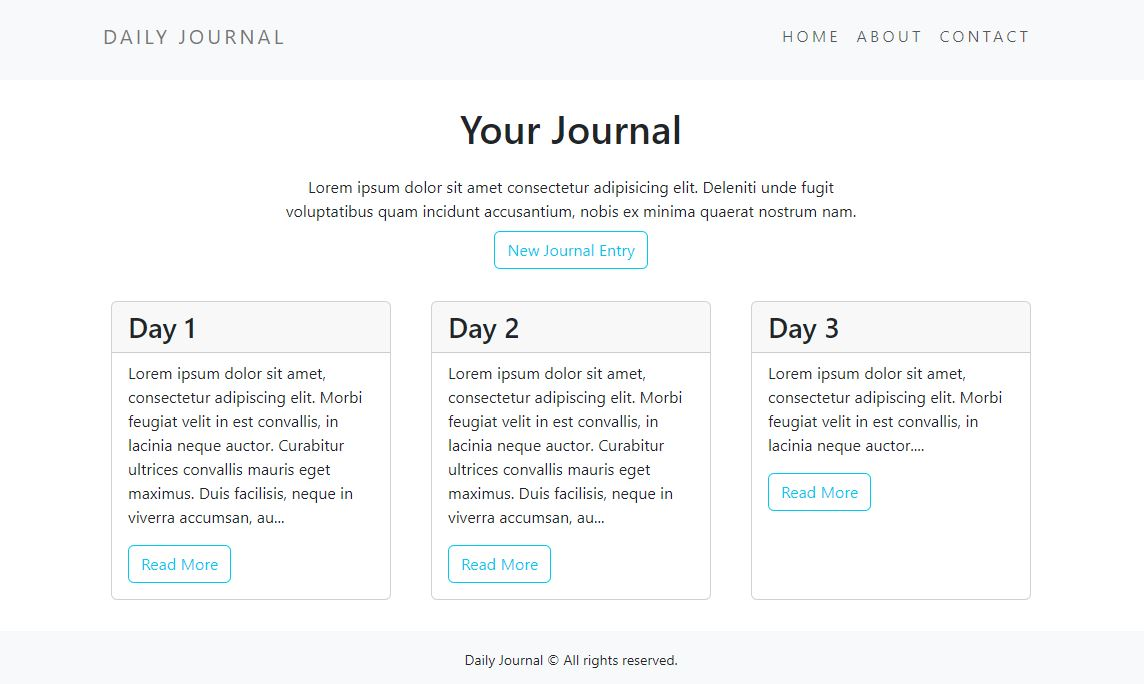
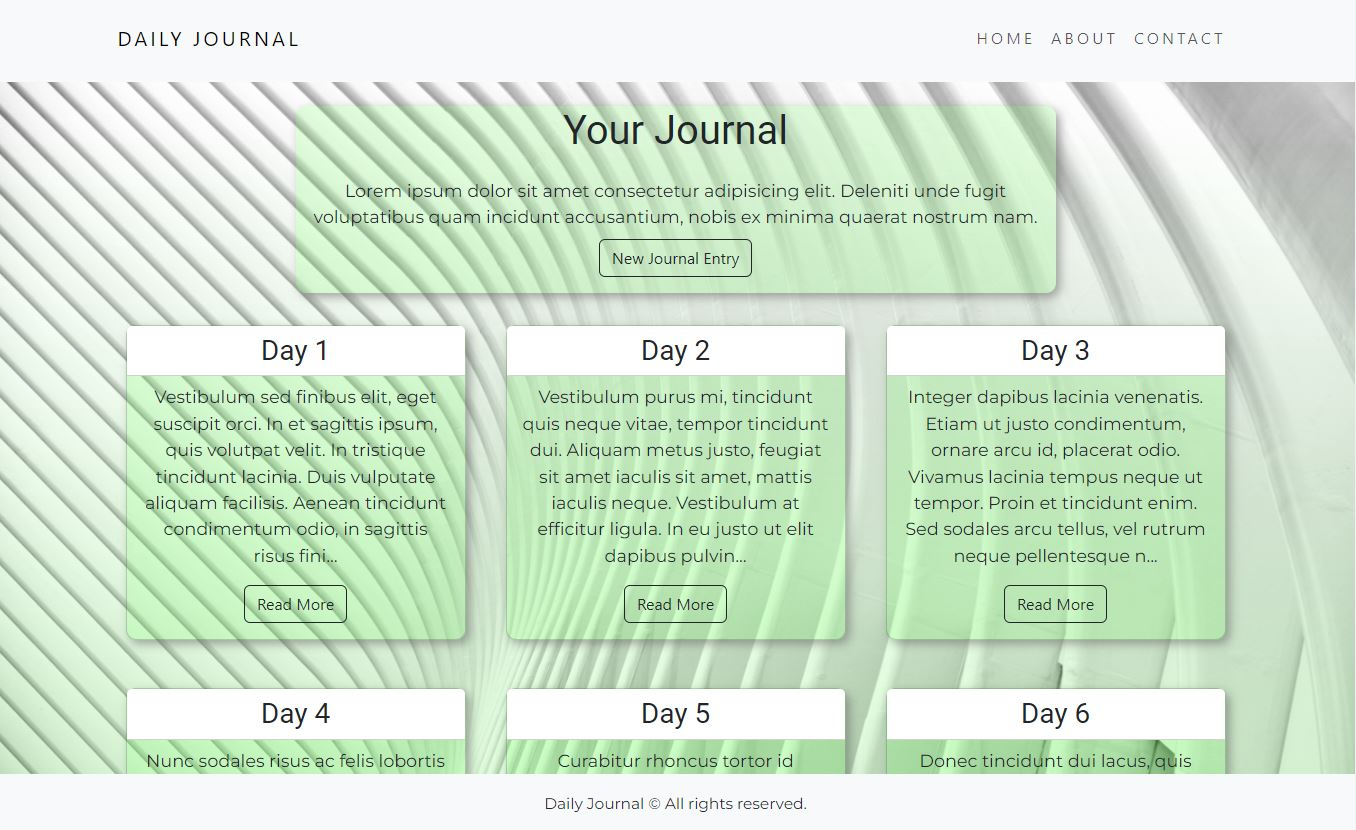
Update layout color scheme and README

diff --git a/public/css/style.css b/public/css/style.css
@@ -1,3 +1,4 @@
+@import url('https://fonts.googleapis.com/css2?family=Montserrat&family=Roboto:wght@300;400&display=swap');
 html,
 body {
   height: 100%;
@@ -5,9 +6,23 @@ body {
   margin: 0;
 }
 
-main {
-  padding-bottom: 50px;
+body {
+  background: url('../images/bg.jpg');
+  background-size: cover;
+  background-position: top;
+  background-repeat: no-repeat;
 }
+
+main {
+  height: 100%;
+  padding-bottom: 50px;
+  background: linear-gradient(
+    0deg,
+    rgba(112, 255, 0, 0.2218020997461485) 0%,
+    rgba(255, 255, 255, 0) 100%
+  );
+}
+
 .navbar-brand,
 .nav-link {
   letter-spacing: 0.2rem;
@@ -16,13 +31,14 @@ main {
 a,
 #btn-delete {
   text-decoration: none;
-  color: rgb(117, 117, 117);
+  color: rgb(0, 0, 0);
   text-align: center;
 }
 
 a:hover,
-#btn-delete:hover {
-  color: rgb(58, 58, 58);
+#btn-delete:hover,
+.nav-link:hover {
+  color: rgba(100, 213, 0, 0.581);
 }
 
 #btn-delete {
@@ -32,4 +48,29 @@ a:hover,
   width: 30px;
   padding: 0;
   margin-top: 20px;
+}
+
+.color-bg {
+  height: 100%;
+  background-color: rgba(119, 255, 0, 0.174);
+  border-radius: 10px;
+  box-shadow: 4px 4px 10px rgba(106, 106, 106, 0.603);
+}
+
+.card {
+  background-color: rgba(119, 255, 0, 0.174);
+  border-radius: 10px;
+  box-shadow: 4px 4px 10px rgba(106, 106, 106, 0.603);
+}
+.card-header {
+  background-color: rgb(255, 255, 255);
+}
+
+.roboto {
+  font-family: 'Roboto', sans-serif;
+}
+
+p {
+  font-family: 'Montserrat', sans-serif;
+  font-size: 1.1rem;
 }

diff --git a/README.md b/README.md
@@ -1,12 +1,13 @@
 # Daily Journal
 
-Developed using NodeJS, Bootstrap, Bootstrap Icons, EJS template, MongoDB atlas with mongoose
+Frontend / backend web application to keep a journal.
 
-<br>
-<p align="center">
-  <img src="screenshot.jpg?raw=true" alt="Screenshot of the App"/>
-</p>
+- Developed using NodeJS, Bootstrap, Bootstrap Icons, EJS template, MongoDB with mongoose
 
-<p align="center">
-  <img src="screenshot2.jpg?raw=true" alt="Screenshot of the App"/>
-</p>
+## Screenshots
+
+> The home screen with the added journal entries.
+> ![alt login and signup page](screenshot.jpg?raw=true)
+
+> Compose a new journal entry
+> ![alt Compose a new journal entry](screenshot3.jpg?raw=true)
